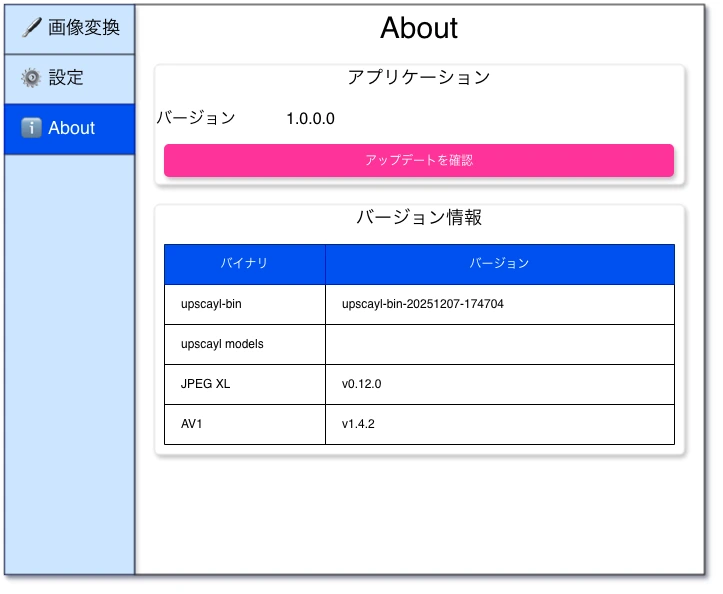
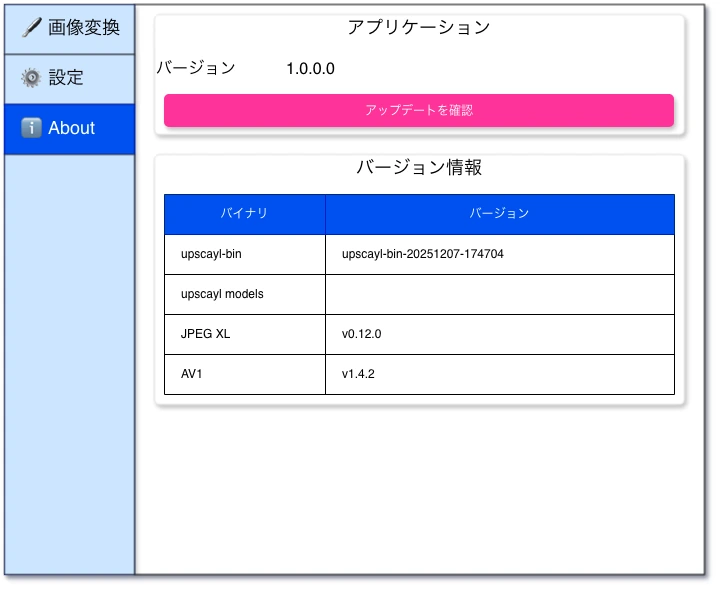
refactor: 画面タイトル削除と上部余白の調整
- 各画面先頭の ScreenTitle (画像変換/設定/About) を削除（左サイドナビで識別可能のため）
- lib/ui/widgets/section.dart: ScreenTitle ウィジェット定義を削除
- 上部余白が無くなったため SingleChildScrollView の padding を fromLTRB(16,0,16,16) → fromLTRB(16,16,16,16) に修正（convert: 2箇所、settings/about: 各1箇所）
- その他、作業ディレクトリに存在した未コミット差分も本PRに含めて反映
  - 壁紙画像の差し替え (wallpaper1/3.jpg, 画面構成画像)
  - docs/design/feature/application-settings.md の新規追加

diff --git a/lib/ui/screens/convert_screen.dart b/lib/ui/screens/convert_screen.dart
@@ -164,7 +164,6 @@ class _FormViewState extends ConsumerState<_FormView> {
     final content = Column(
       crossAxisAlignment: CrossAxisAlignment.stretch,
       children: [
-        ScreenTitle(title: l10n.screenConvert),
         SectionCard(
           title: l10n.sectionInput,
           child: Column(
@@ -348,7 +347,7 @@ class _FormViewState extends ConsumerState<_FormView> {
           Positioned.fill(
             child: SingleChildScrollView(
               controller: _scrollController,
-              padding: const EdgeInsets.fromLTRB(16, 0, 16, 16),
+              padding: const EdgeInsets.fromLTRB(16, 16, 16, 16),
               child: content,
             ),
           ),
@@ -367,7 +366,7 @@ class _FormViewState extends ConsumerState<_FormView> {
           child: ClipRect(
             child: SingleChildScrollView(
               controller: _scrollController,
-              padding: const EdgeInsets.fromLTRB(16, 0, 16, 72),
+              padding: const EdgeInsets.fromLTRB(16, 16, 16, 72),
               child: content,
             ),
           ),

diff --git a/lib/ui/widgets/section.dart b/lib/ui/widgets/section.dart
@@ -5,24 +5,6 @@ import 'glass_card.dart';
 
 export 'glass_card.dart' show GlassCard;
 
-/// 各画面の上部に表示する画面タイトル。
-class ScreenTitle extends StatelessWidget {
-  const ScreenTitle({super.key, required this.title});
-
-  /// 画面のタイトル。
-  final String title;
-
-  @override
-  Widget build(BuildContext context) {
-    return Padding(
-      padding: const EdgeInsets.symmetric(vertical: 16),
-      child: Center(
-        child: Text(title, style: Theme.of(context).textTheme.headlineSmall),
-      ),
-    );
-  }
-}
-
 /// タイトルと中央揃えを持つセクションカード。
 ///
 /// [GlassCard] を使い、Liquid Glass エフェクトを適用する。

diff --git a/lib/ui/screens/settings_screen.dart b/lib/ui/screens/settings_screen.dart
@@ -21,12 +21,10 @@ class SettingsScreen extends ConsumerWidget {
     return Scaffold(
       backgroundColor: Colors.transparent,
       body: SingleChildScrollView(
-        padding: const EdgeInsets.fromLTRB(16, 0, 16, 16),
+        padding: const EdgeInsets.fromLTRB(16, 16, 16, 16),
         child: Column(
           crossAxisAlignment: CrossAxisAlignment.stretch,
           children: [
-            ScreenTitle(title: l10n.screenSettings),
-            const SizedBox(height: 24),
             SectionCard(
               title: l10n.sectionEndAction,
               child: Column(

diff --git a/lib/ui/screens/about_screen.dart b/lib/ui/screens/about_screen.dart
@@ -37,11 +37,10 @@ class _AboutScreenState extends ConsumerState<AboutScreen> {
     return Scaffold(
       backgroundColor: Colors.transparent,
       body: SingleChildScrollView(
-        padding: const EdgeInsets.fromLTRB(16, 0, 16, 16),
+        padding: const EdgeInsets.fromLTRB(16, 16, 16, 16),
         child: Column(
           crossAxisAlignment: CrossAxisAlignment.stretch,
           children: [
-            ScreenTitle(title: l10n.screenAbout),
             SectionCard(
               title: l10n.sectionApp,
               child: Column(

diff --git a/docs/design/feature/application-settings.md b/docs/design/feature/application-settings.md
@@ -1,0 +1,43 @@
+# アプリケーション設定ファイル
+
+## 設定ファイルパス
+
+`~/.config/tree-image-optimizer/settings.json`
+
+## 設定ファイル構造
+
+`settings` `convert` 等、トップレベルには `画面` セクションを作成します。
+
+```json
+{
+  "settings": {
+    "showOsNotification": false,
+    "playSound": false,
+    "successSound": "assets/sounds/success/decision49.mp3",
+    "errorSound": "assets/sounds/error/beep1.mp3",
+    "language": ""
+  },
+  "convert": {
+    "targetFilter": "sevenDays",
+    "scale": 2,
+    "model": "realesr-animevideov3-x4",
+    "format": "jpegXl",
+    "optimizeType": "anime",
+    "quality": 80,
+    "parallelCount": 7
+  }
+}
+```
+
+## 自動生成
+
+- アプリケーション起動時に `settings.json` は自動生成されます。
+- 各設定は初期値が設定されます。
+
+## 自動更新
+
+- 各画面で設定値を変更すると、その選択値が `settings.json` に反映されます。
+
+## アプリ起動時に設定が復元
+
+- アプリケーション起動時に `settings.json` が読み込まれ、設定値が復元されます。
